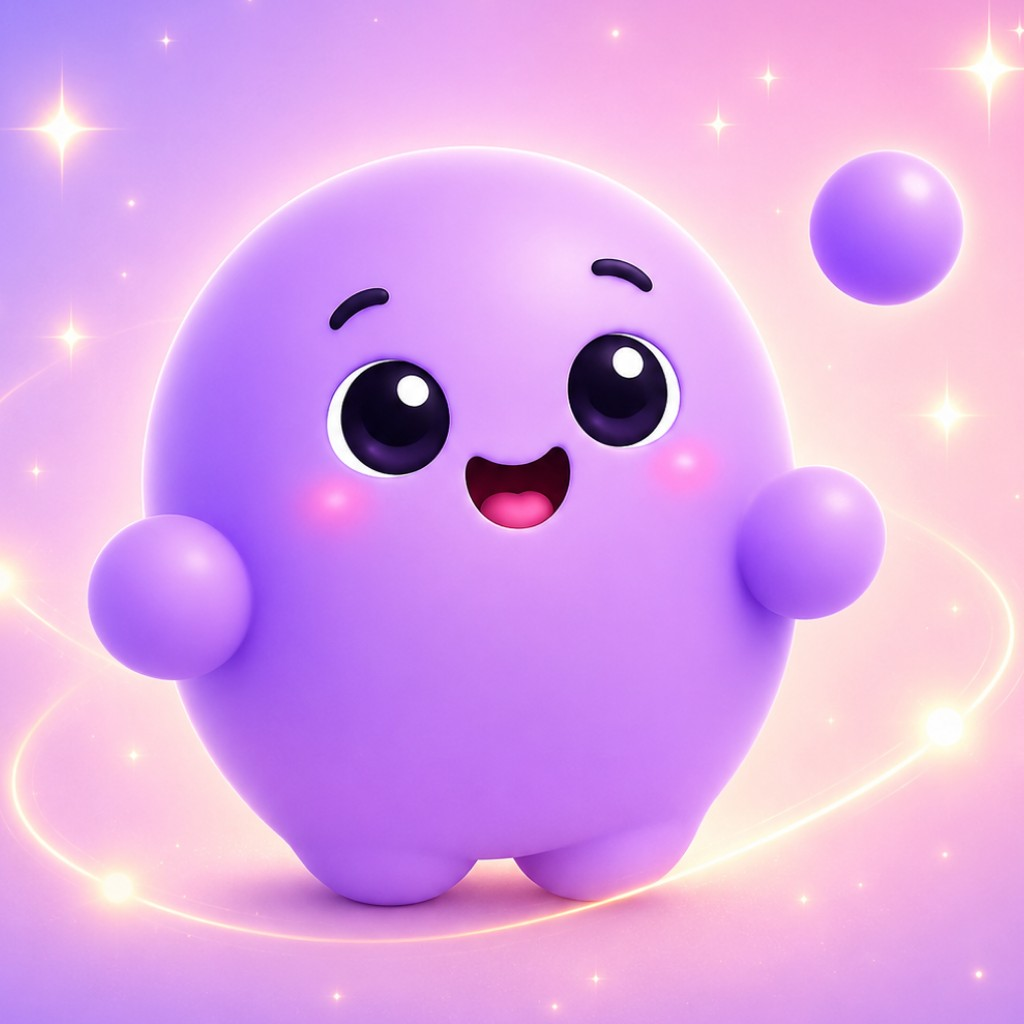
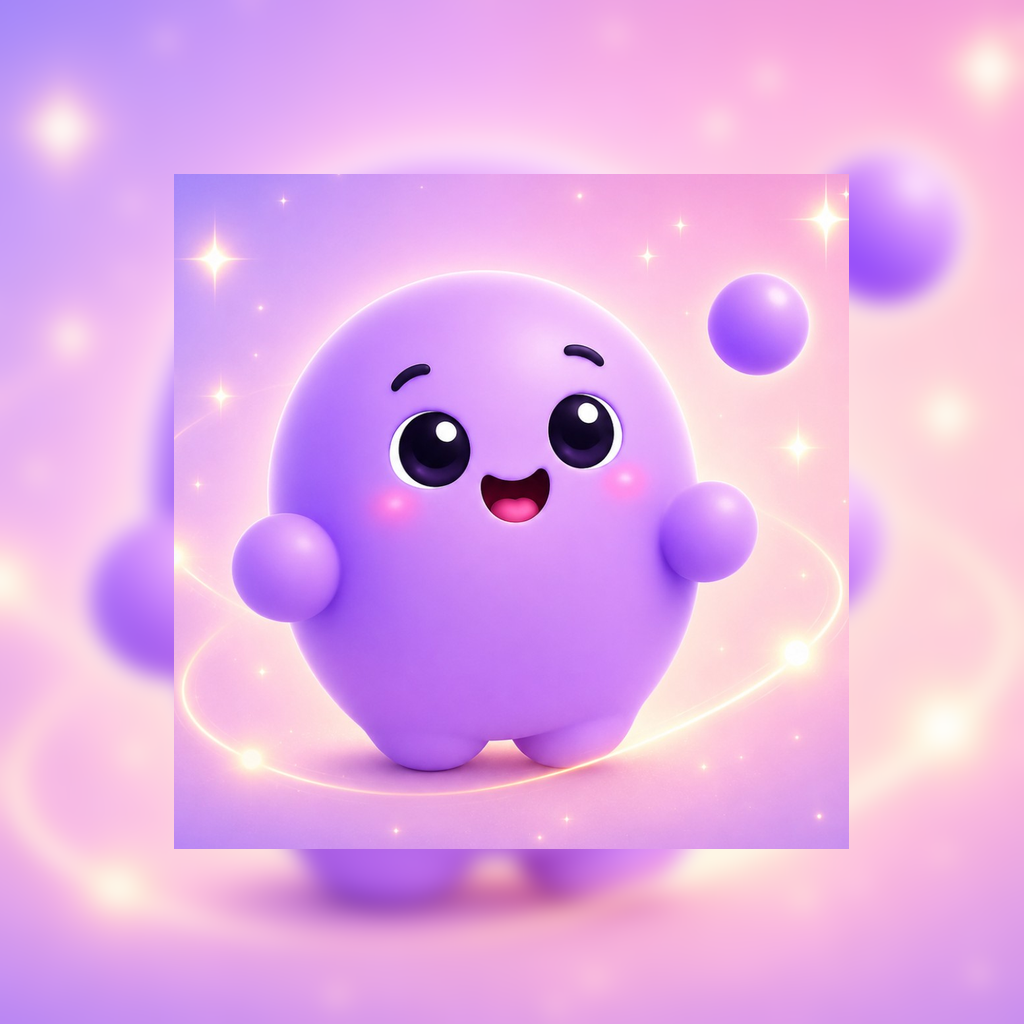
fixes

diff --git a/plugins/with-bobble-native-splash.js b/plugins/with-bobble-native-splash.js
@@ -1,24 +1,55 @@
 /**
- * Android 12+ splash only supports a solid background color plus a centered icon
- * through expo-splash-screen. This plugin uses the full composite splash image
- * as the window background so it matches iOS (one.png + centered bobble-main).
+ * Android 12+ SplashScreen overlay only supports a solid color plus icon.
+ * This plugin shows splash-native.png via windowBackground and keeps it visible
+ * until expo-splash-screen hideAsync(), matching iOS.
  */
 const fs = require('fs');
 const path = require('path');
 
+const { generateImageAsync, generateImageBackgroundAsync } = require('@expo/image-utils');
 const {
   withAndroidStyles,
   withDangerousMod,
-  AndroidConfig,
 } = require('expo/config-plugins');
 
 const SPLASH_ASSET = 'src/assets/images/splash-native.png';
 const DRAWABLE_NAME = 'splashscreen_full';
-const TRANSPARENT_ICON = 'splashscreen_transparent_icon';
+const BACKGROUND_DRAWABLE = 'splashscreen_background';
 const SPLASH_STYLE = {
   name: 'Theme.App.SplashScreen',
-  parent: 'Theme.SplashScreen',
+  parent: 'AppTheme',
 };
+
+const SPLASH_DENSITIES = {
+  mdpi: { width: 360, height: 780 },
+  hdpi: { width: 540, height: 1170 },
+  xhdpi: { width: 720, height: 1560 },
+  xxhdpi: { width: 1080, height: 2340 },
+  xxxhdpi: { width: 1440, height: 3120 },
+};
+
+const SPLASH_MANAGER_MARKER = 'Bobble: use windowBackground splash';
+
+const SPLASH_MANAGER_REGISTER = `  fun registerOnActivity(activity: Activity) {
+    // ${SPLASH_MANAGER_MARKER}
+    ReactMarker.addListener(contentAppearedListener)
+
+    // Using \`splashScreen.setKeepOnScreenCondition()\` does not work on apis below 33
+    // so we need to implement this ourselves.
+    val contentView = activity.findViewById<View>(android.R.id.content)
+    val observer = contentView.viewTreeObserver
+    observer.addOnPreDrawListener(object : OnPreDrawListener {
+      override fun onPreDraw(): Boolean {
+        if (keepSplashScreenOnScreen) {
+          return false
+        }
+        contentView.viewTreeObserver.removeOnPreDrawListener(this)
+        return true
+      }
+    })
+
+    configureSplashScreen()
+  }`;
 
 /** @type {import('expo/config-plugins').ConfigPlugin} */
 function withBobbleNativeSplash(config) {
@@ -26,45 +57,105 @@ function withBobbleNativeSplash(config) {
     'android',
     async (cfg) => {
       const projectRoot = cfg.modRequest.projectRoot;
-      const drawableDir = path.join(
+      const source = path.join(projectRoot, SPLASH_ASSET);
+      const drawableXmlDir = path.join(
+        projectRoot,
+        'android/app/src/main/res/drawable',
+      );
+      const managerPath = path.join(
+        projectRoot,
+        'node_modules/expo-splash-screen/android/src/main/java/expo/modules/splashscreen/SplashScreenManager.kt',
+      );
+
+      await fs.promises.mkdir(drawableXmlDir, { recursive: true });
+
+      const nodpiDir = path.join(
         projectRoot,
         'android/app/src/main/res/drawable-nodpi',
       );
-      const source = path.join(projectRoot, SPLASH_ASSET);
+      await fs.promises.rm(path.join(nodpiDir, `${DRAWABLE_NAME}.png`), { force: true });
 
-      await fs.promises.mkdir(drawableDir, { recursive: true });
-      await fs.promises.copyFile(
-        source,
-        path.join(drawableDir, `${DRAWABLE_NAME}.png`),
+      await Promise.all(
+        Object.entries(SPLASH_DENSITIES).map(async ([density, size]) => {
+          const { source: image } = await generateImageAsync(
+            { projectRoot, cacheType: 'bobble-android-splash' },
+            {
+              src: source,
+              resizeMode: 'cover',
+              width: size.width,
+              height: size.height,
+            },
+          );
+          const dir = path.join(
+            projectRoot,
+            `android/app/src/main/res/drawable-${density}`,
+          );
+          await fs.promises.mkdir(dir, { recursive: true });
+          await fs.promises.writeFile(
+            path.join(dir, `${DRAWABLE_NAME}.png`),
+            image,
+          );
+        }),
       );
 
-      const transparentIcon = Buffer.from(
[1 lines of base64/hex data omitted]
-        'base64',
-      );
+      const backgroundXml = `<?xml version="1.0" encoding="utf-8"?>
+<layer-list xmlns:android="http://schemas.android.com/apk/res/android">
+  <item android:drawable="@color/splashscreen_background" />
+  <item>
+    <bitmap
+      android:gravity="fill"
+      android:src="@drawable/${DRAWABLE_NAME}" />
+  </item>
+</layer-list>
+`;
       await fs.promises.writeFile(
-        path.join(drawableDir, `${TRANSPARENT_ICON}.png`),
-        transparentIcon,
+        path.join(drawableXmlDir, `${BACKGROUND_DRAWABLE}.xml`),
+        backgroundXml,
       );
+
+      if (fs.existsSync(managerPath)) {
+        let managerSource = await fs.promises.readFile(managerPath, 'utf8');
+        const registerStart = managerSource.indexOf('  fun registerOnActivity(activity: Activity) {');
+        const registerEnd = managerSource.indexOf('  fun hide() {', registerStart);
+
+        if (registerStart !== -1 && registerEnd !== -1) {
+          managerSource =
+            managerSource.slice(0, registerStart) +
+            SPLASH_MANAGER_REGISTER +
+            '\n\n' +
+            managerSource.slice(registerEnd);
+          await fs.promises.writeFile(managerPath, managerSource);
+        }
+      }
 
       return cfg;
     },
   ]);
 
   config = withAndroidStyles(config, (cfg) => {
-    cfg.modResults = AndroidConfig.Styles.assignStylesValue(cfg.modResults, {
-      add: true,
-      parent: SPLASH_STYLE,
-      name: 'windowSplashScreenBackground',
-      value: `@drawable/${DRAWABLE_NAME}`,
-    });
+    const styles = cfg.modResults;
+    const styleList = styles.resources.style ?? [];
 
-    cfg.modResults = AndroidConfig.Styles.assignStylesValue(cfg.modResults, {
-      add: true,
-      parent: SPLASH_STYLE,
-      name: 'windowSplashScreenAnimatedIcon',
-      value: `@drawable/${TRANSPARENT_ICON}`,
-    });
+    styles.resources.style = [
+      ...styleList.filter(({ $ }) => $.name !== SPLASH_STYLE.name),
+      {
+        $: SPLASH_STYLE,
+        item: [
+          {
+            $: { name: 'android:windowBackground' },
+            _: `@drawable/${BACKGROUND_DRAWABLE}`,
+          },
+          {
+            $: { name: 'android:windowDisablePreview' },
+            _: 'true',
+          },
+          {
+            $: { name: 'android:statusBarColor' },
+            _: '#FBFAFB',
+          },
+        ],
+      },
+    ];
 
     return cfg;
   });

diff --git a/scripts/generate-app-icons.py b/scripts/generate-app-icons.py
@@ -6,14 +6,15 @@ from __future__ import annotations
 from collections import deque
 from pathlib import Path
 
-from PIL import Image, ImageChops, ImageOps
+from PIL import Image, ImageChops, ImageFilter, ImageOps
 
 ROOT = Path(__file__).resolve().parents[1]
 SOURCE = ROOT / "src/assets/images/bobble-main.png"
 OUTPUT_DIR = ROOT / "src/assets/images"
 
 ICON_SIZE = 1024
-FOREGROUND_SCALE = 0.78
+FOREGROUND_SCALE = 0.72
+ADAPTIVE_FOREGROUND_SCALE = 0.66
 ICON_SCALE = 0.82
 APP_ICON_SCALE = 0.85
 FAVICON_SIZE = 48
@@ -122,13 +123,27 @@ def save_png(image: Image.Image, path: Path) -> None:
         image.save(path, format="PNG", optimize=True)
 
 
+def fit_adaptive_foreground(app_icon: Image.Image, size: int, scale: float) -> Image.Image:
+    """Scale the full iOS-style icon into the Android adaptive safe zone."""
+    target = int(size * scale)
+    scaled = app_icon.resize((target, target), resample=Image.Resampling.LANCZOS)
+    background = ImageOps.fit(app_icon, (size, size), method=Image.Resampling.LANCZOS).filter(
+        ImageFilter.GaussianBlur(radius=10)
+    )
+    canvas = background.convert("RGBA")
+    offset = ((size - target) // 2, (size - target) // 2)
+    canvas.alpha_composite(scaled, offset)
+    return canvas
+
+
 def main() -> None:
     source = Image.open(SOURCE)
     cutout = prepare_mascot_cutout(source)
+    app_icon = Image.open(OUTPUT_DIR / "bobble-app-icon.png").convert("RGBA")
 
     save_png(to_opaque_icon(cutout, ICON_SIZE, ICON_SCALE, DARK_BG), OUTPUT_DIR / "icon.png")
     save_png(
-        fit_on_square(cutout, ICON_SIZE, FOREGROUND_SCALE),
+        fit_adaptive_foreground(app_icon, ICON_SIZE, ADAPTIVE_FOREGROUND_SCALE),
         OUTPUT_DIR / "android-icon-foreground.png",
     )
     save_png(
@@ -140,10 +155,11 @@ def main() -> None:
         OUTPUT_DIR / "favicon.png",
     )
     save_png(fit_bobble_main_for_splash(source, SPLASH_SIZE, 0.85), OUTPUT_DIR / "splash-icon.png")
-    save_png(
-        fit_bobble_main_for_app_icon(source, ICON_SIZE, APP_ICON_SCALE),
-        OUTPUT_DIR / "bobble-app-icon.png",
-    )
+    if not (OUTPUT_DIR / "bobble-app-icon.png").exists():
+        save_png(
+            fit_bobble_main_for_app_icon(source, ICON_SIZE, APP_ICON_SCALE),
+            OUTPUT_DIR / "bobble-app-icon.png",
+        )
 
     print("Generated app icons from bobble-main.png")
 
